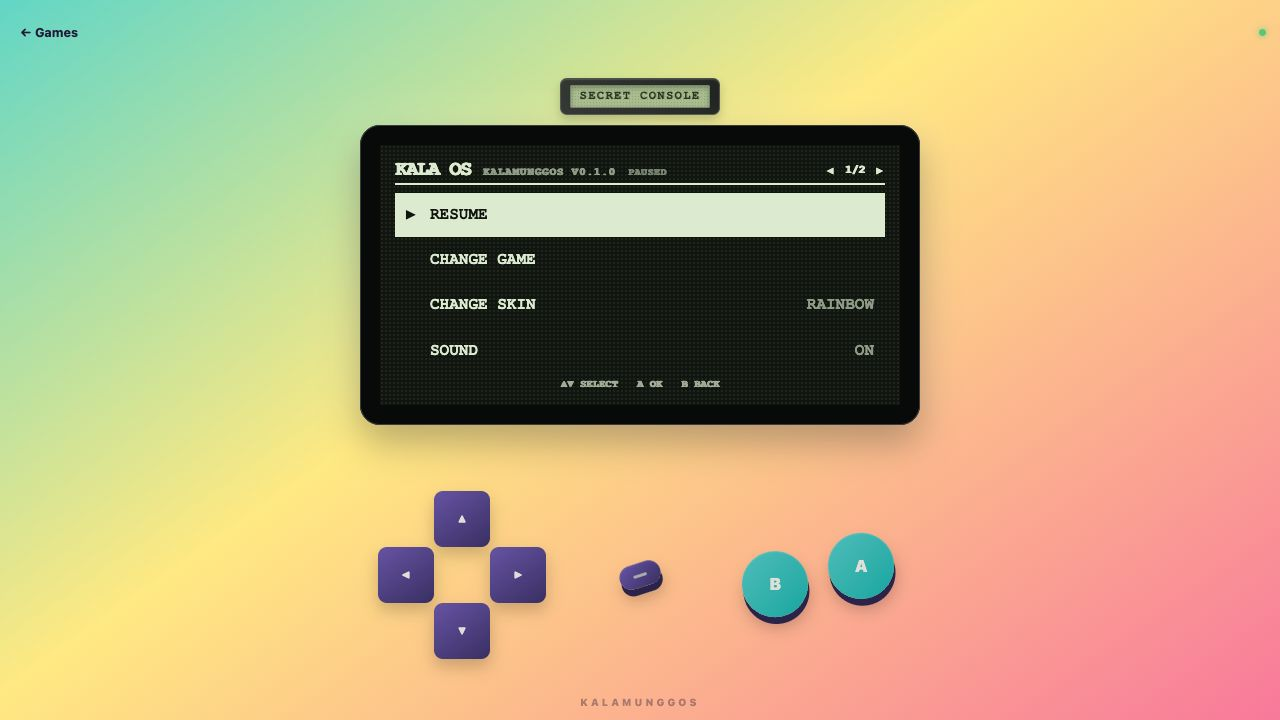
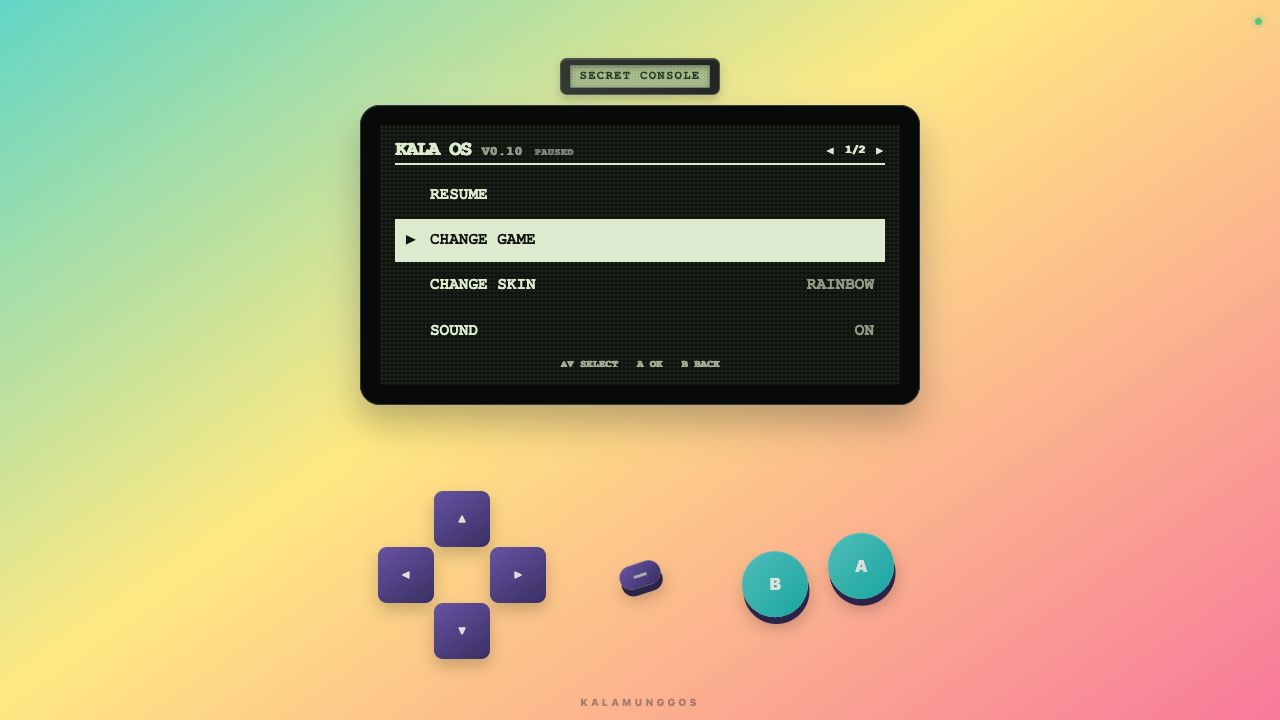
Polish Kala OS compact landscape layout

diff --git a/src/styles.css b/src/styles.css
@@ -39,16 +39,15 @@ button { font: inherit; }
 }
 
 .handheld {
+  position: relative;
   min-height: 100dvh;
   padding: max(env(safe-area-inset-top), 12px) max(env(safe-area-inset-right), 14px) max(env(safe-area-inset-bottom), 12px) max(env(safe-area-inset-left), 14px);
   display: flex;
   flex-direction: column;
 }
 .handheld::before { content: ""; position: fixed; inset: 0; z-index: -1; background: linear-gradient(145deg, color-mix(in srgb, var(--body) 92%, white), var(--body-deep)); }
-.handheld-header { display: grid; grid-template-columns: 1fr auto 1fr; align-items: center; min-height: 40px; gap: 10px; }
-.back-button { justify-self: start; border: 0; color: var(--ink); background: transparent; font-size: .78rem; font-weight: 750; cursor: pointer; }
-.header-spacer { grid-column: 2; }
-.status-light { grid-column: 3; justify-self: end; width: 7px; height: 7px; border-radius: 50%; background: #58c878; box-shadow: 0 0 8px #58c878; }
+.handheld-header { position: absolute; top: max(env(safe-area-inset-top), 18px); right: max(env(safe-area-inset-right), 18px); z-index: 1; }
+.status-light { display: block; width: 7px; height: 7px; border-radius: 50%; background: #58c878; box-shadow: 0 0 8px #58c878; }
 .console-body { flex: 1; display: grid; grid-template-rows: minmax(0, 1fr) minmax(220px, 38vh); align-items: center; gap: 14px; width: min(660px, 100%); margin: auto; }
 .display-stack { width: min(100%, 600px); margin: auto; }
 
@@ -115,9 +114,7 @@ button { font: inherit; }
 
 .game-library { display: grid; grid-template-rows: auto 1fr auto; gap: clamp(5px, 1.4vw, 10px); padding: clamp(8px, 2.4vw, 18px); }
 .firmware-heading { display: flex; align-items: baseline; justify-content: space-between; gap: 10px; border-bottom: 2px solid currentColor; }
-.firmware-heading p { margin: 0 0 3px; font-size: clamp(.55rem, 1.7vw, .75rem); letter-spacing: .12em; opacity: .72; }
-.firmware-heading p span { margin-left: .6em; font-size: .72em; letter-spacing: .04em; white-space: nowrap; }
-.firmware-heading h1 { margin: 0 0 3px; font-size: clamp(.9rem, 3.5vw, 1.5rem); line-height: 1; letter-spacing: -.07em; }
+.firmware-heading p, .firmware-heading h1 { margin: 0 0 3px; font: inherit; font-size: clamp(.55rem, 1.7vw, .78rem); line-height: 1; letter-spacing: .08em; white-space: nowrap; }
 .game-list { display: grid; gap: clamp(3px, .9vw, 7px); align-content: center; }
 .game-card {
   display: grid;
@@ -142,7 +139,7 @@ button { font: inherit; }
 .system-menu { display: grid; grid-template-rows: auto 1fr auto; gap: clamp(4px, 1vw, 8px); padding: clamp(7px, 2vw, 15px); }
 .menu-heading { display: flex; align-items: center; justify-content: space-between; gap: 8px; padding-bottom: 3px; border-bottom: 2px solid currentColor; }
 .menu-heading > div:first-child { display: flex; align-items: baseline; gap: clamp(6px, 1.5vw, 12px); }
-.menu-heading span { font-size: clamp(.5rem, 1.4vw, .66rem); letter-spacing: .1em; opacity: .62; }
+.menu-heading span { font-size: .62em; letter-spacing: .06em; opacity: .62; }
 .menu-heading em { font-size: clamp(.46rem, 1.25vw, .6rem); font-style: normal; letter-spacing: .08em; opacity: .5; }
 .menu-heading h2 { margin: 0; font-size: clamp(.85rem, 2.8vw, 1.25rem); line-height: 1; letter-spacing: -.06em; }
 .page-controls { display: flex; align-items: center; gap: 6px; }
@@ -198,13 +195,13 @@ button { font: inherit; }
 
 @media (orientation: landscape) and (max-height: 700px) {
   .handheld { padding-block: max(env(safe-area-inset-top), 8px) max(env(safe-area-inset-bottom), 8px); }
-  .console-body { grid-template-columns: minmax(300px, 1.5fr) minmax(350px, 1fr); grid-template-rows: 1fr; width: min(100%, 1100px); }
+  .console-body { grid-template-columns: minmax(280px, 1.3fr) minmax(300px, 1fr); grid-template-rows: 1fr; gap: clamp(18px, 4vw, 48px); width: min(100%, 900px); }
   .display-stack { width: 100%; }
   .title-display { margin-bottom: 6px; }
   .controls { grid-template-columns: 1fr 42px 1fr; }
-  .dpad { grid-template-columns: repeat(3, min(12vh, 58px)); grid-template-rows: repeat(3, min(12vh, 58px)); }
-  .dpad button { min-width: min(12vh, 58px); min-height: min(12vh, 58px); }
-  .action-buttons button { width: min(14vh, 68px); height: min(14vh, 68px); }
+  .dpad { grid-template-columns: repeat(3, min(14vh, 60px)); grid-template-rows: repeat(3, min(14vh, 60px)); }
+  .dpad button { min-width: min(14vh, 60px); min-height: min(14vh, 60px); }
+  .action-buttons button { width: min(16vh, 72px); height: min(16vh, 72px); }
   .brand-mark { display: none; }
 }
 

diff --git a/src/main.ts b/src/main.ts
@@ -8,6 +8,7 @@ const root = document.querySelector<HTMLDivElement>("#app")!;
 if (!root) throw new Error("Missing app root");
 
 const kalamunggosVersion = "0.1.0";
+const kalaOsVersion = "0.10";
 let settings = loadSettings();
 let activeGame: WasmGame | undefined;
 let activeDefinition: GameDefinition | undefined;
@@ -23,8 +24,6 @@ root.innerHTML = `
   <main class="app-shell ${settings.skin === "white" ? "skin-white" : `skin-${settings.skin}`}">
     <section class="handheld" aria-label="Virtual handheld">
       <header class="handheld-header">
-        <button class="back-button" type="button" aria-label="Return to game list" hidden>← Games</button>
-        <span class="header-spacer" aria-hidden="true"></span>
         <span class="status-light" aria-hidden="true"></span>
       </header>
       <div class="console-body">
@@ -37,7 +36,7 @@ root.innerHTML = `
               <canvas class="game-screen" width="128" height="64" aria-label="Game display" hidden></canvas>
               <section class="screen-ui game-library" aria-labelledby="library-title">
                 <div class="firmware-heading">
-                  <p>Kala OS <span>Kalamunggos v${kalamunggosVersion}</span></p>
+                  <p>Kala OS v${kalaOsVersion}</p>
                   <h1 id="library-title">Game select</h1>
                 </div>
                 <div class="game-list">
@@ -47,7 +46,7 @@ root.innerHTML = `
               </section>
               <section class="screen-ui system-menu" hidden aria-labelledby="menu-title">
                 <div class="menu-heading">
-                  <div><h2 id="menu-title">Kala OS</h2><span>Kalamunggos v${kalamunggosVersion}</span><em>Paused</em></div>
+                  <div><h2 id="menu-title">Kala OS <span>v${kalaOsVersion}</span></h2><em>Paused</em></div>
                   <div class="page-controls"><button type="button" data-page="-1" aria-label="Previous settings page">◀</button><strong class="menu-page"></strong><button type="button" data-page="1" aria-label="Next settings page">▶</button></div>
                 </div>
                 <div class="menu-actions">
@@ -87,7 +86,6 @@ root.innerHTML = `
 
 const shell = root.querySelector<HTMLElement>(".app-shell")!;
 const library = root.querySelector<HTMLElement>(".game-library")!;
-const backButton = root.querySelector<HTMLButtonElement>(".back-button")!;
 const titleDisplay = root.querySelector<HTMLElement>(".title-display")!;
 const title = root.querySelector<HTMLElement>(".title-display-text")!;
 const canvas = root.querySelector<HTMLCanvasElement>("canvas")!;
@@ -189,7 +187,6 @@ async function launch(definition: GameDefinition): Promise<void> {
   library.hidden = true;
   menu.hidden = true;
   about.hidden = true;
-  backButton.hidden = false;
   canvas.hidden = false;
   context.fillStyle = "#0a0a0a";
   context.fillRect(0, 0, 128, 64);
@@ -212,7 +209,6 @@ function showLibrary(): void {
   about.hidden = true;
   canvas.hidden = true;
   titleDisplay.hidden = true;
-  backButton.hidden = true;
   library.hidden = false;
   selectedGameIndex = 0;
   updateGameSelection();
@@ -250,7 +246,6 @@ gameButtons.forEach((button, index) => {
   });
 });
 
-backButton.addEventListener("click", showLibrary);
 root.querySelector<HTMLButtonElement>(".system-button")!.addEventListener("click", showMenu);
 
 function handleKalaInput(button: ButtonName): boolean {
